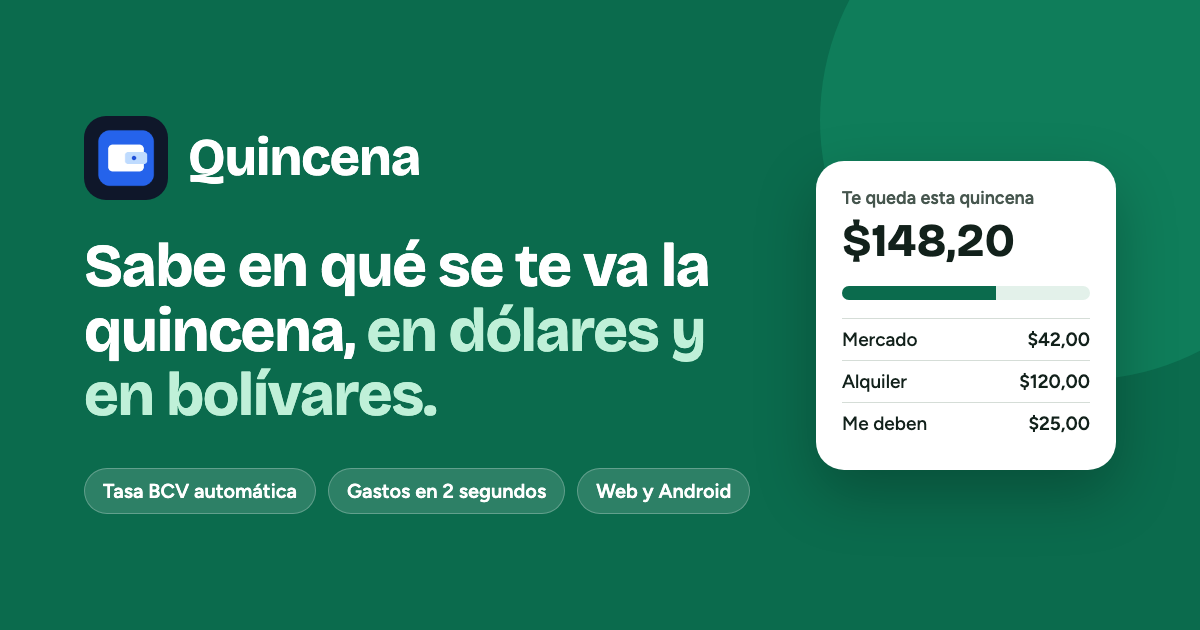
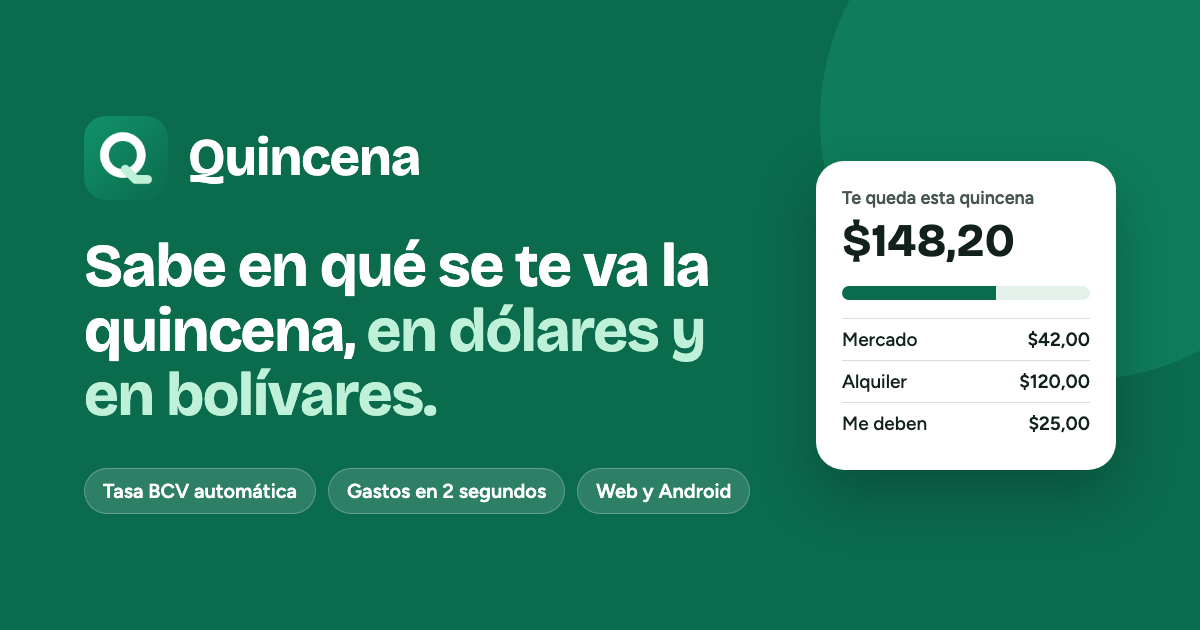
Ícono nuevo (web y Android) y pantallas de acceso renovadas
- La Q de Quincena sobre el verde de la marca: favicon.ico, icon.svg, PWA (any y maskable),
  apple-touch-icon e ícono adaptativo vectorial de Android con capa monocromática.
  Todo sale de tools/icons.py; ruta /favicon.ico en el servidor.
- Login web: panel de marca en computadora, mostrar/ocultar contraseña, aviso de Bloq Mayús.
- Corregido: una contraseña incorrecta mostraba "Tu sesión terminó".

Changed region(s): [[0.0617, 0.181, 0.1542, 0.3317]]

diff --git a/static/index.html b/static/index.html
@@ -18,7 +18,9 @@
 <meta property="og:image:alt" content="Quincena: sabe en qué se te va la quincena, en dólares y en bolívares">
 <meta name="twitter:card" content="summary_large_image">
 <link rel="manifest" href="/static/manifest.webmanifest">
-<link rel="apple-touch-icon" href="/static/icons/icon-192.png">
+<link rel="icon" href="/favicon.ico" sizes="32x32">
+<link rel="icon" href="/static/icons/icon.svg" type="image/svg+xml">
+<link rel="apple-touch-icon" href="/static/icons/apple-touch-icon.png">
 <link rel="stylesheet" href="https://fonts.googleapis.com/css2?family=Bricolage+Grotesque:wght@600;700&family=Figtree:wght@400;500;600&display=swap">
 <style>
 :root{--bg:#F3F6F2;--ink:#12211B;--mut:#46564E;--g:#0B6B4D;--gs:#E3F1EA;--line:#D5DDD7;--warn:#B25E00;--bad:#B3261E;--soft:#FBE7BF;--card:#fff}
@@ -51,6 +53,36 @@ nav button.on{color:var(--g);font-weight:600}nav svg{width:24px;height:24px;fill
 .sheet form{background:var(--bg);width:100%;max-width:520px;border-radius:24px 24px 0 0;padding:20px 16px calc(20px + env(safe-area-inset-bottom));display:flex;flex-direction:column;gap:12px;max-height:92vh;overflow:auto}
 #toast{position:fixed;left:50%;transform:translateX(-50%);bottom:calc(150px + env(safe-area-inset-bottom));background:var(--ink);color:var(--bg);border-radius:14px;padding:10px 16px;z-index:30;display:none;align-items:center;gap:10px;max-width:90vw}
 .auth{max-width:380px;margin:8vh auto 0;display:flex;flex-direction:column;gap:14px}
+/* Pantallas de acceso: panel de marca en computadora, formulario centrado en el teléfono */
+#app.authmode{max-width:none;margin:0;padding:0;display:block;min-height:100vh}
+.authpage{min-height:100vh;display:flex}.aside{display:none}
+.authmain{flex:1;display:flex;justify-content:center;padding:24px 16px 120px}
+.authmain .auth{width:100%;max-width:400px;margin:0}
+.amob{display:flex;align-items:center;gap:12px;font:700 26px 'Bricolage Grotesque',sans-serif;color:var(--g);margin:3vh 0 8px}
+.amob img,.abrand img{width:48px;height:48px;border-radius:14px}
+.atitle{font-size:30px;line-height:1.1}.asub{margin:-6px 0 4px}
+.pwf{position:relative;display:flex}.pwf input{flex:1;width:100%;padding-right:84px}
+.pwt{position:absolute;right:6px;top:50%;transform:translateY(-50%);background:none;border:0;color:var(--g);font-weight:600;min-height:40px;padding:0 12px;border-radius:10px;cursor:pointer}
+.pwt:focus-visible{outline:2px solid var(--g)}
+.caps{color:var(--warn);font-size:13px;font-weight:600}.ahint{margin-top:-8px;font-size:13px}
+.arow{display:flex;justify-content:flex-end;margin:-10px -8px -4px}
+.achk{flex-direction:row;align-items:flex-start;gap:10px;font-weight:400}.achk input{width:22px;min-height:22px;margin:0;flex:none}
+.sep{display:flex;align-items:center;gap:12px;color:var(--mut);font-size:13px}.sep::before,.sep::after{content:"";flex:1;height:1px;background:var(--line)}
+.aswitch{text-align:center;color:var(--mut);margin:2px 0 0;font-size:15px}.aswitch .link{padding:0 4px;min-height:32px}
+.apkl{display:flex;align-items:center;justify-content:center;gap:10px;background:var(--gs);color:var(--g);border:0;border-radius:14px;min-height:48px;font-weight:600;cursor:pointer;margin-top:4px}
+.apkl img{width:26px;height:26px;border-radius:8px}
+.alegal{text-align:center;font-size:12px;color:var(--mut);margin:8px 0 0}
+@media(prefers-color-scheme:dark){.authpage .btn:not(.o){color:#0E1512}}
+@media(min-width:900px){
+.aside{display:flex;flex-direction:column;justify-content:center;gap:28px;width:min(46vw,620px);padding:64px;background:linear-gradient(150deg,#12936A,#0B6B4D);color:#fff;position:relative;overflow:hidden}
+.aside::after{content:"";position:absolute;right:-160px;top:-160px;width:460px;height:460px;border-radius:50%;background:rgba(255,255,255,.07)}
+.abrand{display:flex;align-items:center;gap:14px;font:700 30px 'Bricolage Grotesque',sans-serif;position:relative}.abrand img{width:56px;height:56px;border-radius:16px;box-shadow:0 0 0 2px rgba(255,255,255,.35),0 10px 24px rgba(0,0,0,.2)}
+.aside h2{font:700 46px/1.06 'Bricolage Grotesque',sans-serif;letter-spacing:-1px;margin:0;max-width:460px;position:relative}.aside h2 em{font-style:normal;color:#BFF0D8}
+.aside ul{list-style:none;padding:0;margin:0;display:flex;flex-direction:column;gap:14px;font-size:18px;position:relative}
+.aside li{display:flex;gap:12px;align-items:center}.aside li::before{content:"✓";width:28px;height:28px;border-radius:50%;background:rgba(255,255,255,.16);display:grid;place-items:center;font-weight:700;flex:none}
+.aprivacy{font-size:14px;opacity:.85;margin:0;position:relative}
+.authmain{align-items:center;padding:48px}.amob{display:none}
+}
 .apkm{position:fixed;inset:0;background:rgba(8,20,15,.55);backdrop-filter:blur(3px);display:flex;align-items:center;justify-content:center;padding:16px;z-index:25;animation:apf .2s ease}
 .apkm .box{background:var(--card);width:100%;max-width:380px;border-radius:28px;padding:26px 22px 16px;display:flex;flex-direction:column;gap:14px;box-shadow:0 24px 60px rgba(0,0,0,.35);animation:apu .3s cubic-bezier(.2,.8,.2,1);max-height:92vh;overflow:auto}
 .apkm .top{display:flex;flex-direction:column;align-items:center;text-align:center;gap:10px;padding:18px 12px;border-radius:20px;background:linear-gradient(160deg,var(--gs),transparent)}
@@ -94,7 +126,7 @@ nav .navuser{display:block;margin-top:auto;padding:0 14px;color:var(--mut);font-
 .cd{border:0;background:transparent;border-radius:10px;min-height:42px;display:flex;flex-direction:column;align-items:center;justify-content:center;gap:2px;font:inherit;font-size:14px;cursor:pointer;color:var(--ink)}.cd i{display:flex;gap:2px;height:6px}.cd i b{width:6px;height:6px;border-radius:50%}.cd.today{font-weight:700;color:var(--g)}.cd.sel{background:var(--gs)}
 .dot{display:inline-block;width:9px;height:9px;border-radius:50%;flex:none}.calday{display:flex;flex-direction:column;gap:6px}
 .ckbar{position:fixed;left:12px;right:12px;bottom:calc(80px + env(safe-area-inset-bottom));z-index:26;background:var(--card);border:1px solid var(--line);border-radius:16px;padding:12px 14px;display:flex;gap:12px;align-items:center;box-shadow:0 8px 24px rgba(0,0,0,.18);font-size:14px;max-width:520px;margin:0 auto}
-.auth~.ckbar{bottom:16px}.legal a,.auth a,.ckbar a,.terms a{color:var(--g)}
+.authpage~.ckbar{bottom:16px}.legal a,.auth a,.ckbar a,.terms a{color:var(--g)}
 nav .navuser small{display:block;font-size:11px;margin-top:4px;opacity:.8}
 @media(min-width:900px){.ckbar{left:auto;right:24px;bottom:24px;max-width:420px}}
 </style>
@@ -131,8 +163,8 @@ function rateBox(e={}){const t=e.currency==='BS'?(e.rateType||'bcv'):'bcv',m=mra
 function rateFields(f,cur){if(cur!=='BS')return{rateType:undefined,rateUsed:undefined,bcvRate:undefined,marketRate:undefined};const t=f.querySelector('#rts .on')?.dataset.rt||'bcv',o=num(f.querySelector('[name=rateOther]')?.value||'');if(t==='cambio'&&lastCambio())return{rateType:'otra',rateUsed:lastCambio(),bcvRate:rate(),marketRate:mrate()||undefined};const used=t==='usdt'&&mrate()?mrate():t==='otra'&&o>0?o:rate();return{rateType:t==='otra'&&!(o>0)?'bcv':t,rateUsed:used,bcvRate:rate(),marketRate:mrate()||undefined}}
 function clean(o){for(const k in o)if(o[k]===undefined)delete o[k];return o}
 function toast(msg,undo){const t=$('#toast');t.innerHTML=LOC(esc(msg))+(undo?' <button class="link" style="color:var(--g)" id="un">Deshacer</button>':'');t.style.display='flex';clearTimeout(toast.t);if(undo)$('#un').onclick=()=>{undo();t.style.display='none'};toast.t=setTimeout(()=>t.style.display='none',5000)}
-function friendly(e){const m=e.message||'';if(e.status===401)return 'Tu sesión terminó. Entra de nuevo.';if(e.status>=500||/Error de servidor/.test(m))return 'Algo salió mal. Inténtalo en unos minutos.';if(e.network)return 'Sin conexión. Revisa tu internet e inténtalo de nuevo.';return m}
-async function api(url,o={}){const h={'Content-Type':'application/json'};if(S.csrf&&o.method&&o.method!=='GET')h['X-CSRF-Token']=S.csrf;let r;try{r=await fetch(url,{credentials:'same-origin',...o,headers:h})}catch(e){const x=new Error('net');x.network=true;throw x}const p=await r.json().catch(()=>({}));if(!r.ok){const e=new Error(p.error||'Error de servidor ('+r.status+')');e.status=r.status;if(r.status===401&&S.user&&!/\/api\/(login|status|logout)/.test(url)){Object.assign(S,{user:null,data:null,sheet:null});setTimeout(()=>{render();toast('Tu sesión se cerró por seguridad. Entra de nuevo.')},0)}throw e}return p}
+function friendly(e){const m=e.message||'';if(e.status===401&&!/\/api\/(login|setup|passkeys\/login)/.test(e.url||''))return 'Tu sesión terminó. Entra de nuevo.';if(e.status>=500||/Error de servidor/.test(m))return 'Algo salió mal. Inténtalo en unos minutos.';if(e.network)return 'Sin conexión. Revisa tu internet e inténtalo de nuevo.';return m}
+async function api(url,o={}){const h={'Content-Type':'application/json'};if(S.csrf&&o.method&&o.method!=='GET')h['X-CSRF-Token']=S.csrf;let r;try{r=await fetch(url,{credentials:'same-origin',...o,headers:h})}catch(e){const x=new Error('net');x.network=true;throw x}const p=await r.json().catch(()=>({}));if(!r.ok){const e=new Error(p.error||'Error de servidor ('+r.status+')');e.status=r.status;e.url=url;if(r.status===401&&S.user&&!/\/api\/(login|status|logout)/.test(url)){Object.assign(S,{user:null,data:null,sheet:null});setTimeout(()=>{render();toast('Tu sesión se cerró por seguridad. Entra de nuevo.')},0)}throw e}return p}
 async function load(){const r=await api('/api/state');S.data=r.data;S.base=JSON.parse(JSON.stringify(r.data));S.rev=r.revision;S.cur=S.data.currency==='BS'?'BS':'USD';let mg=0;for(const e of S.data.expenses||[])if(e.category==='fijo'&&(/_abono$/.test(String(e.id))||/_paid_/.test(String(e.id))||/^(Abono a |Pago a )/.test(e.description||''))){e.category='deudas';mg++}const gn=genRecurring();if(mg||gn)setTimeout(save,0)}
 let q=Promise.resolve();
 function save(){q=q.then(async()=>{try{const r=await api('/api/state',{method:'PUT',body:JSON.stringify({data:S.data,base_data:S.base,base_revision:S.rev})});S.data=r.data;S.base=JSON.parse(JSON.stringify(r.data));S.rev=r.revision}catch(e){toast(friendly(e));try{await load()}catch(_){}}render()});return q}
@@ -179,7 +211,7 @@ for(const x of b)if(x.bal<=.02&&P.payoff[x.id]==null)P.payoff[x.id]=m;if(m>12&&b
 if(!b.some(x=>x.bal>.02)){P.months=m;P.interest=int}return P}
 function compromisos(){const d=S.data,pays=d.schoolPayments||[];return `<div class="card">${(d.schoolExpenses||[]).map(x=>{const left=Math.max(0,x.amount-pays.filter(p=>String(p.expenseId)===String(x.id)).reduce((n,p)=>n+p.amount,0));return `<div class="item"><div><b>${esc(x.description)}</b><div class="mut">${esc(x.student||'')}${x.dueDate?' · vence '+new Date(x.dueDate+'T00:00:00').toLocaleDateString('es-VE',{day:'numeric',month:'short'}):''}</div><div class="mut">${left>0?'Falta '+money(left,x.currency)+' de '+money(x.amount,x.currency):'Pagado'}</div></div><div class="row" style="gap:4px"><button class="link" data-editc="${esc(x.id)}" aria-label="Editar compromiso">Editar</button>${left>0?`<button class="btn s" data-cpago="${esc(x.id)}">Pagar</button>`:''}</div></div>`}).join('')||'<span class="mut">Aquí van el colegio, el alquiler y otros pagos que repites.</span>'}</div><button class="btn" data-sheet="compromiso">Agregar compromiso</button>`}
 // ---- descarga de la app Android ----
[1 lines of base64/hex data omitted]
+const APP_ICON='/static/icons/icon-192.png';
 const isAndroid=/Android/i.test(navigator.userAgent),isIOS=/iPhone|iPad/i.test(navigator.userAgent),inApp=matchMedia('(display-mode: standalone)').matches;
 // Origen del registro: el último enlace con utm (o fbclid de Meta) que trajo a la persona; se envía al crear la cuenta.
 const UTM_KEYS=['utm_source','utm_medium','utm_campaign','utm_content','utm_term','fbclid'];
@@ -317,14 +349,23 @@ S.act=Date.now();['click','keydown','touchstart','scroll'].forEach(ev=>document.
 setInterval(async()=>{if(S.user&&Date.now()-S.act>30*60e3){try{await api('/api/logout',{method:'POST',body:'{}'})}catch(_){}Object.assign(S,{user:null,data:null,sheet:null});render();toast('Cerramos tu sesión por seguridad tras 30 minutos sin uso.')}},60e3);
 
 // ---- pantallas ----
-function authView(){const F=(id,h,body,btn,extra='')=>`<form class="auth" id="${id}"><h1 style="color:var(--g);font-size:36px">Quincena</h1><p class="mut">${h}</p>${body}<button class="btn">${btn}</button>${extra}<p class="mut" style="text-align:center;font-size:13px;margin-top:8px">${legalLinks()}<br>${COPY}</p></form>`,L=(a,t)=>`<button type="button" class="link" data-auth="${a}">${t}</button>`,pw='<label>Contraseña nueva (mínimo 12 caracteres)<input name="new_password" type="password" autocomplete="new-password" required minlength="12"></label>';
-if(S.user?.must_change_password)return F('f-pw','Por seguridad, cambia la contraseña temporal antes de continuar.','<label>Contraseña actual<input name="old_password" type="password" autocomplete="current-password" required></label>'+pw,'Guardar contraseña');
+function authView(){const side=`<aside class="aside"><div class="abrand"><img src="${APP_ICON}" alt="">Quincena</div><h2>Sabe en qué se te va <em>la quincena.</em></h2><ul><li>Tu saldo real hasta el próximo cobro</li><li>Dólares y moneda local con la tasa del día</li><li>Avisos de pagos y de quién te debe</li></ul><p class="aprivacy">Tus finanzas son privadas: solo tú las ves.</p></aside>`,
+W=inner=>`<div class="authpage">${side}<main class="authmain">${inner}</main></div>`,
+F=(id,t,h,body,btn,extra='')=>W(`<form class="auth" id="${id}"><div class="amob"><img src="${APP_ICON}" alt="">Quincena</div><h1 class="atitle">${t}</h1><p class="mut asub">${h}</p>${body}<button class="btn">${btn}</button>${extra}<p class="alegal">${legalLinks()}<br>${COPY}</p></form>`),
+L=(a,t)=>`<button type="button" class="link" data-auth="${a}">${t}</button>`,
+P=(name,label,ac,more='')=>`<label>${label}<span class="pwf"><input name="${name}" type="password" autocomplete="${ac}" required ${more}><button type="button" class="pwt" aria-label="Mostrar contraseña" aria-pressed="false">Ver</button></span><small class="caps" hidden>Bloq Mayús está activado</small></label>`,
+pw=P('new_password','Contraseña nueva','new-password','minlength="12"')+'<small class="mut ahint">Mínimo 12 caracteres. Una frase que recuerdes funciona bien.</small>';
+if(S.user?.must_change_password)return F('f-pw','Cambia tu contraseña','Por seguridad, cambia la contraseña temporal antes de continuar.',P('old_password','Contraseña actual','current-password')+pw,'Guardar contraseña');
 const m=S.setup?'setup':S.auth||'login';
-if(m==='legal')return `<div class="auth"><h1 style="color:var(--g);font-size:28px">Términos y privacidad</h1>${LEGAL.map(x=>`<div><b>${x[0]}</b><p class="mut" style="margin:4px 0 0">${x[1]}</p></div>`).join('')}<button class="btn" data-auth="${S.reg?'registro':'login'}">Volver</button></div>`;
-if(m==='registro')return F('f-registro','Crea tu cuenta gratis.',`<label>Usuario<input name="username" autocomplete="username" required></label><label>Correo<input name="email" type="email" autocomplete="email" required></label><label>¿En qué país vives?<select name="country">${countryOpts(guessCountry())}</select></label><label>Contraseña (mínimo 12 caracteres)<input name="password" type="password" autocomplete="new-password" required minlength="12"></label><label style="flex-direction:row;align-items:center;font-weight:400"><input name="accept" type="checkbox" required style="width:24px;min-height:24px"><span>Acepto los <a href="/terminos" target="_blank" rel="noopener">términos</a>, la <a href="/privacidad" target="_blank" rel="noopener">privacidad</a> y las <a href="/cookies" target="_blank" rel="noopener">cookies</a></span></label>`,'Crear mi cuenta',L('legal','Leer términos y privacidad')+L('login','Ya tengo cuenta'));
-if(m==='olvide')return F('f-olvide','Te enviaremos un enlace para elegir una contraseña nueva.','<label>Correo<input name="email" type="email" autocomplete="email" required></label>','Enviarme el enlace',L('login','Volver'));
-if(m==='reset')return F('f-reset','Elige tu contraseña nueva.',pw,'Guardar contraseña');
-return F(`f-${S.setup?'setup':'login'}`,'Tus finanzas, solo para ti.',`<label>Usuario<input name="username" autocomplete="username" required></label><label>Contraseña<input name="password" type="password" autocomplete="${S.setup?'new-password':'current-password'}" required></label>${S.setup?'<label>Código de activación<input name="bootstrap_token" required></label>':''}`,S.setup?'Crear mi cuenta':'Entrar',S.setup?'':(window.PublicKeyCredential?'<button type="button" class="btn o" id="pk">Entrar con huella o rostro</button>':'')+L('olvide','¿Olvidaste tu contraseña?')+(S.reg?L('registro','Crear una cuenta'):'')+L('legal','Términos y privacidad')+(!isIOS&&!inApp?'<button type="button" class="btn o" data-apk="1">Descargar la app para Android</button>':''))}
+if(m==='legal')return W(`<div class="auth"><h1 class="atitle">Términos y privacidad</h1>${LEGAL.map(x=>`<div><b>${x[0]}</b><p class="mut" style="margin:4px 0 0">${x[1]}</p></div>`).join('')}<button class="btn" data-auth="${S.reg?'registro':'login'}">Volver</button></div>`);
+if(m==='registro')return F('f-registro','Crea tu cuenta','Gratis. Solo tú ves tus finanzas.',`<label>Usuario<input name="username" autocomplete="username" autocapitalize="none" spellcheck="false" required></label><label>Correo<input name="email" type="email" autocomplete="email" required></label><label>¿En qué país vives?<select name="country">${countryOpts(guessCountry())}</select></label>${P('password','Contraseña','new-password','minlength="12"')}<small class="mut ahint">Mínimo 12 caracteres. Una frase que recuerdes funciona bien.</small><label class="achk"><input name="accept" type="checkbox" required><span>Acepto los <a href="/terminos" target="_blank" rel="noopener">términos</a>, la <a href="/privacidad" target="_blank" rel="noopener">privacidad</a> y las <a href="/cookies" target="_blank" rel="noopener">cookies</a></span></label>`,'Crear mi cuenta',`<p class="aswitch">¿Ya tienes cuenta? ${L('login','Entra')}</p>`+L('legal','Leer términos y privacidad'));
+if(m==='olvide')return F('f-olvide','Recupera tu acceso','Te enviaremos un enlace para elegir una contraseña nueva.','<label>Correo<input name="email" type="email" autocomplete="email" required></label>','Enviarme el enlace',`<p class="aswitch">${L('login','Volver a entrar')}</p>`);
+if(m==='reset')return F('f-reset','Elige tu contraseña nueva','Después podrás entrar con ella desde la web y la app.',pw,'Guardar contraseña');
+if(S.setup)return F('f-setup','Configura Quincena','Crea la cuenta de administrador.',`<label>Usuario<input name="username" autocomplete="username" autocapitalize="none" spellcheck="false" required></label>${P('password','Contraseña','new-password')}<label>Código de activación<input name="bootstrap_token" required></label>`,'Crear mi cuenta');
+return F('f-login','Hola de nuevo','Entra para ver cómo va tu quincena.',`<label>Usuario<input name="username" autocomplete="username" autocapitalize="none" spellcheck="false" required></label>${P('password','Contraseña','current-password')}<div class="arow">${L('olvide','¿Olvidaste tu contraseña?')}</div>`,'Entrar',(window.PublicKeyCredential?'<div class="sep"><span>o</span></div><button type="button" class="btn o" id="pk">Entrar con huella o rostro</button>':'')+(S.reg?`<p class="aswitch">¿No tienes cuenta? ${L('registro','Crea una gratis')}</p>`:'')+(!isIOS&&!inApp?`<button type="button" class="apkl" data-apk="1"><img src="${APP_ICON}" alt="">Descargar la app para Android</button>`:''))}
+// Mostrar u ocultar la contraseña y avisar si Bloq Mayús está activado (pantallas de acceso).
+document.addEventListener('click',e=>{const b=e.target.closest('.pwt');if(!b)return;const i=b.previousElementSibling,show=i.type==='password';i.type=show?'text':'password';b.textContent=show?'Ocultar':'Ver';b.setAttribute('aria-pressed',String(show));b.setAttribute('aria-label',show?'Ocultar contraseña':'Mostrar contraseña');i.focus()});
+['keydown','keyup'].forEach(k=>document.addEventListener(k,e=>{const f=e.target.closest&&e.target.closest('.pwf');if(!f||!e.getModifierState)return;const c=f.parentElement.querySelector('.caps');if(c)c.hidden=!e.getModifierState('CapsLock')}));
 const TITLES={inicio:'Inicio',movimientos:'Movimientos',deudas:'Deudas',pagos:'Pagos',mas:'Más'};
 function head(){return `<div class="row sp head"><div><h1 class="logo" style="color:var(--g);font-size:22px">Quincena</h1><h1 class="ptitle">${TITLES[S.tab]||''}</h1><div class="mut">${new Date().getDate()<=15?'1.ª':'2.ª'} quincena de ${new Date().toLocaleDateString('es-VE',{month:'long'})}</div></div><div class="row" style="gap:8px"><button class="link" id="eye" aria-label="Ocultar o mostrar montos">${S.hide?'Mostrar':'Ocultar'}</button><div class="seg"><button data-cur="USD" class="${S.cur==='USD'?'on':''}">$</button><button data-cur="BS" class="${S.cur==='BS'?'on':''}">${ctry().t}</button></div></div></div>`}
 // ---- Inicio compacto: todo lo importante en una pantalla; los detalles abren en una ventana ----
@@ -384,7 +425,7 @@ mepago:(()=>{const x=(S.data.receivables||[]).find(y=>String(y.id)===S.arg)||{};
 clave:`<h1>Cambiar contraseña</h1><label>Contraseña actual<input name="old_password" type="password" autocomplete="current-password" required></label><label>Contraseña nueva (mínimo 12 caracteres)<input name="new_password" type="password" autocomplete="new-password" required minlength="12"></label><label>Repite la nueva<input name="confirm" type="password" autocomplete="new-password" required minlength="12"></label><span class="mut">Al cambiarla, cerramos la sesión en tus otros teléfonos.</span>`,
 cpago:`<h1>Pagar compromiso</h1>${num('Monto')}<label>Forma de pago<select name="method"><option value="banco">Transferencia</option><option value="pago_movil">Pago móvil</option><option value="efectivo">Efectivo</option><option value="tarjeta">Tarjeta</option></select></label><label>Referencia (opcional)<input name="reference"></label>`}[k];
 return `<div class="sheet"><form id="f-sheet" data-k="${k}">${F}<button class="btn">${k==='borrar'?'Eliminar para siempre':'Guardar'}</button><button type="button" class="btn o" id="x">Cancelar</button></form></div>`}
-function render(){const a=$('#app');if(!S.user||S.user.must_change_password){a.className='';a.innerHTML=authView()+apkView()+cookieBar();return}if(!S.data){a.innerHTML='<p class="mut">Cargando…</p>';return}
+function render(){const a=$('#app');if(!S.user||S.user.must_change_password){a.className='authmode';a.innerHTML=authView()+apkView()+cookieBar();return}if(!S.data){a.innerHTML='<p class="mut">Cargando…</p>';return}
 const icons={inicio:'<path d="M4 11l8-7 8 7v9H4z"/>',movimientos:'<path d="M4 7h16M4 12h16M4 17h10"/>',deudas:'<rect x="3" y="6" width="18" height="12" rx="2"/><path d="M3 10h18"/>',pagos:'<rect x="3" y="5" width="18" height="15" rx="3"/><path d="M3 10h18M8 3v4M16 3v4"/>',mas:'<circle cx="5" cy="12" r="1.5"/><circle cx="12" cy="12" r="1.5"/><circle cx="19" cy="12" r="1.5"/>'};
 const V={inicio,movimientos,deudas,pagos,mas}[S.tab]();
 a.className='v-'+S.tab;a.innerHTML=LOC(V+`<nav><div><span class="brand">Quincena</span>${Object.keys(icons).map(k=>`<button data-tab="${k}" class="${S.tab===k?'on':''}"><svg viewBox="0 0 24 24" aria-hidden="true">${icons[k]}</svg>${TITLES[k]}</button>`).join('')}<button class="navadd" data-sheet="gasto">+ Registrar gasto</button><span class="navuser">${esc(S.user.username)}<small>${COPY}</small></span></div></nav><button class="fab" data-sheet="gasto" aria-label="Registrar un gasto">+</button>`+sheetView()+apkView()+termsView()+cookieBar())}

diff --git a/static/service-worker.js b/static/service-worker.js
@@ -1,5 +1,5 @@
-const CACHE_NAME = 'quincena-shell-v19';
-const SHELL = ['/', '/static/manifest.webmanifest', '/static/icons/icon-192.png', '/static/icons/icon-512.png'];
+const CACHE_NAME = 'quincena-shell-v20';
+const SHELL = ['/', '/static/manifest.webmanifest', '/static/icons/icon-192.png', '/static/icons/icon-512.png', '/static/icons/icon.svg'];
 self.addEventListener('install', (event) => {
   event.waitUntil(caches.open(CACHE_NAME).then((cache) => cache.addAll(SHELL)).then(() => self.skipWaiting()));
 });

diff --git a/static/legal.html b/static/legal.html
@@ -4,6 +4,8 @@
 <meta charset="utf-8">
 <meta name="viewport" content="width=device-width,initial-scale=1">
 <title>Términos, privacidad y cookies · Quincena</title>
+<link rel="icon" href="/favicon.ico" sizes="32x32">
+<link rel="icon" href="/static/icons/icon.svg" type="image/svg+xml">
 <meta name="description" content="Términos de uso, política de privacidad y política de cookies de Quincena.">
 <style>
 :root{--bg:#F3F6F2;--ink:#12211B;--mut:#46564E;--g:#0B6B4D;--gs:#E3F1EA;--line:#D5DDD7;--card:#fff}

diff --git a/tools/icons.py b/tools/icons.py
@@ -1,0 +1,95 @@
+"""Genera todos los iconos de Quincena desde un solo diseño (la "Q" blanca con cola menta sobre verde).
+
+Ejecutar desde la raíz del proyecto:  python3 tools/icons.py
+Necesita Google Chrome (para dibujar los SVG) y sips (viene con macOS). No necesita librerías de Python.
+
+Crea:
+  static/icons/icon.svg            icono vectorial (favicon moderno)
+  static/icons/favicon.ico         16, 32 y 48 px para navegadores viejos y Windows
+  static/icons/icon-192.png        icono "any" con esquinas redondeadas (PWA, aviso de APK)
+  static/icons/icon-512.png
+  static/icons/maskable-512.png    icono a sangre para Android al instalar la web (el sistema le pone la forma)
+  static/icons/apple-touch-icon.png  180 px a sangre (iOS redondea solo)
+  android/.../mipmap-*/ic_launcher.png  respaldo en PNG del icono de la app
+El icono adaptativo de Android es vectorial y vive en drawable/ic_launcher_foreground.xml (mismas medidas que aquí).
+"""
+import pathlib
+import shutil
+import struct
+import subprocess
+import tempfile
+
+ROOT = pathlib.Path(__file__).resolve().parent.parent
+ICONS = ROOT / "static" / "icons"
+RES = ROOT / "android" / "app" / "src" / "main" / "res"
+CHROME = "/Applications/Google Chrome.app/Contents/MacOS/Google Chrome"
+
+GREEN_TOP, GREEN_BOTTOM, MINT = "#12936A", "#0B6B4D", "#BFF0D8"
+
+
+def mark(scale: float = 1.0) -> str:
+    """La Q en un lienzo de 512: anillo blanco y cola menta que sale a la derecha (así no parece una lupa).
+    (267, 256) es el centro de la figura; scale < 1 la achica hacia el centro para respetar la zona segura."""
+    t = f'translate(256 256) scale({scale}) translate(-267 -256)'
+    return (f'<g transform="{t}">'
+            f'<circle cx="246" cy="236" r="122" fill="none" stroke="#fff" stroke-width="58"/>'
+            f'<path d="M262 330 L330 398 L410 398" fill="none" stroke="{MINT}" stroke-width="58" stroke-linecap="round" stroke-linejoin="round"/>'
+            f'</g>')
+
+
+def svg(rounded: bool, scale: float) -> str:
+    shape = '<rect width="512" height="512" rx="112" fill="url(#g)"/>' if rounded else '<rect width="512" height="512" fill="url(#g)"/>'
+    return ('<svg xmlns="http://www.w3.org/2000/svg" viewBox="0 0 512 512">'
+            f'<defs><linearGradient id="g" x1="0" y1="0" x2="1" y2="1"><stop offset="0" stop-color="{GREEN_TOP}"/>'
+            f'<stop offset="1" stop-color="{GREEN_BOTTOM}"/></linearGradient></defs>{shape}{mark(scale)}</svg>')
+
+
+def render(svg_text: str, out: pathlib.Path, size: int, tmp: pathlib.Path) -> None:
+    """Dibuja el SVG a 512 px con Chrome (fondo transparente) y lo reduce con sips al tamaño pedido."""
+    page = tmp / "i.html"
+    page.write_text(f'<html><body style="margin:0;background:transparent">{svg_text.replace("<svg ", "<svg width=512 height=512 ", 1)}</body></html>')
+    big = tmp / "big.png"
+    subprocess.run([CHROME, "--headless", "--disable-gpu", "--hide-scrollbars", "--default-background-color=00000000",
+                    "--window-size=512,512", f"--screenshot={big}", page.as_uri()], check=True, capture_output=True)
+    out.parent.mkdir(parents=True, exist_ok=True)
+    shutil.copy(big, out)
+    if size != 512:
+        subprocess.run(["sips", "-z", str(size), str(size), str(out)], check=True, capture_output=True)
+
+
+def write_ico(pngs: list[pathlib.Path], out: pathlib.Path) -> None:
+    """Un .ico puede guardar PNG tal cual: cabecera + una entrada por tamaño + los PNG."""
+    data = [p.read_bytes() for p in pngs]
+    sizes = [struct.unpack(">II", d[16:24])[0] for d in data]
+    offset = 6 + 16 * len(data)
+    header = struct.pack("<HHH", 0, 1, len(data))
+    entries = b""
+    for size, blob in zip(sizes, data):
+        entries += struct.pack("<BBBBHHII", size % 256, size % 256, 0, 0, 1, 32, len(blob), offset)
+        offset += len(blob)
+    out.write_bytes(header + entries + b"".join(data))
+
+
+def main() -> None:
+    # maskable: el punto más lejano (la punta de la cola) queda dentro del círculo seguro del 80 % que exige Android.
+    rounded, bleed, maskable = svg(True, 0.92), svg(False, 0.86), svg(False, 0.82)
+    (ICONS / "icon.svg").write_text(rounded + "\n", encoding="utf-8")
+    with tempfile.TemporaryDirectory() as t:
+        tmp = pathlib.Path(t)
+        for size in (192, 512):
+            render(rounded, ICONS / f"icon-{size}.png", size, tmp)
+        render(maskable, ICONS / "maskable-512.png", 512, tmp)
+        render(bleed, ICONS / "apple-touch-icon.png", 180, tmp)
+        small = []
+        for size in (16, 32, 48):
+            p = tmp / f"fav-{size}.png"
+            render(rounded, p, size, tmp)
+            small.append(p)
+        write_ico(small, ICONS / "favicon.ico")
+        for folder, size in (("mdpi", 48), ("hdpi", 72), ("xhdpi", 96), ("xxhdpi", 144), ("xxxhdpi", 192)):
+            render(rounded, RES / f"mipmap-{folder}" / "ic_launcher.png", size, tmp)
+    print("Iconos generados en", ICONS, "y", RES)
+
+
+if __name__ == "__main__":
+    main()

diff --git a/app.py b/app.py
@@ -1005,6 +1005,15 @@ def index():
 
 
 @limiter.exempt
+@app.get("/favicon.ico")
+def favicon():
+    # Los navegadores lo piden siempre en la raíz, aunque la página declare otro icono.
+    response = send_from_directory(Path(app.static_folder) / "icons", "favicon.ico", mimetype="image/x-icon")
+    response.headers["Cache-Control"] = "public, max-age=604800"
+    return response
+
+
+@limiter.exempt
 @app.get("/service-worker.js")
 def service_worker():
     response = send_from_directory(app.static_folder, "service-worker.js")

diff --git a/CHANGELOG.md b/CHANGELOG.md
@@ -8,6 +8,28 @@ Formato: **Agregado** (nuevo), **Cambiado** (mejoras), **Corregido** (errores), 
 
 ---
 
+## [Sin publicar · ícono nuevo y acceso renovado] — 25 oct 2026
+
+### Agregado
+- **Ícono nuevo (web y Android):** la "Q" de Quincena en blanco con la cola menta, sobre el degradado verde de la marca.
+  Sale de un solo diseño: `python3 tools/icons.py` genera `favicon.ico` (16/32/48), `icon.svg`, los PNG de la PWA,
+  un ícono *maskable* propio, el de iPhone (`apple-touch-icon.png`) y los PNG de respaldo de Android.
+- **Android:** ícono adaptativo vectorial (`drawable/ic_launcher_foreground.xml` y `ic_launcher_background.xml`) con capa
+  monocromática para los íconos temáticos de Android 13+. Se quitaron los PNG de primer plano viejos.
+- **Servidor:** ruta `/favicon.ico` (los navegadores la piden siempre en la raíz).
+
+### Cambiado
+- **Web — Pantallas de acceso:** en computadora, panel de marca a la izquierda y formulario a la derecha; en el teléfono,
+  formulario centrado con el ícono. Botón para mostrar u ocultar la contraseña, aviso de Bloq Mayús, "¿Olvidaste tu
+  contraseña?" junto al campo, separador antes de "Entrar con huella o rostro" y menos botones apilados.
+- El aviso de descargar la app usa el ícono nuevo (antes iba incrustado en base64).
+
+### Corregido
+- **Web:** al equivocarse de contraseña salía "Tu sesión terminó. Entra de nuevo."; ahora se muestra el mensaje real
+  ("Usuario o contraseña incorrectos.").
+- **Web:** en modo oscuro, el botón principal de las pantallas de acceso tenía texto blanco sobre verde claro (poco
+  contraste); ahora el texto es oscuro.
+
 ## [Sin publicar · origen de los registros] — 25 oct 2026
 
 ### Agregado
